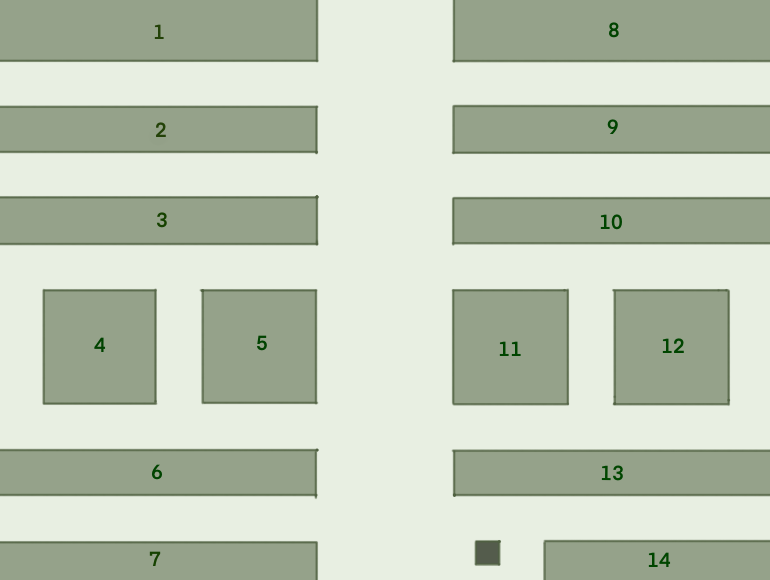
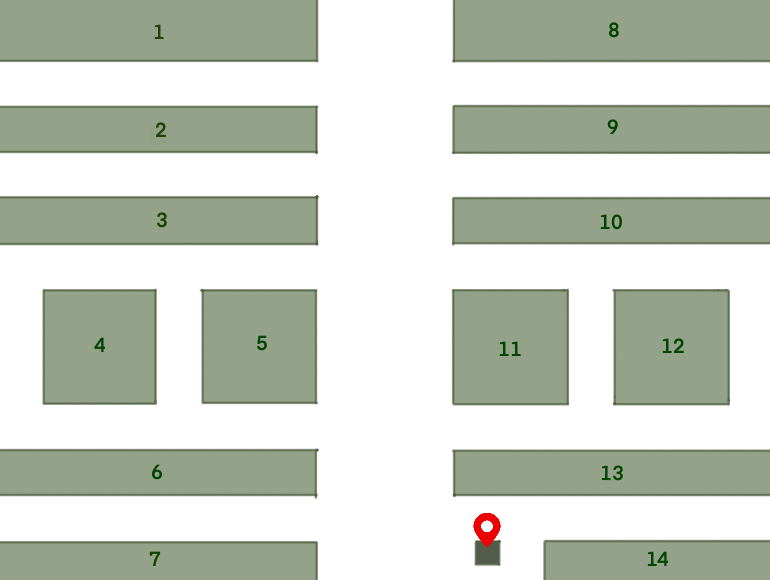
modification de la map

diff --git a/front-end/src/main/java/edu/ezip/ing1/pds/front/ProductMapping.java b/front-end/src/main/java/edu/ezip/ing1/pds/front/ProductMapping.java
@@ -1,6 +1,7 @@
 package edu.ezip.ing1.pds.front;
 
 import javax.swing.*;
+import javax.swing.border.Border;
 import javax.swing.border.EmptyBorder;
 
 import edu.ezip.ing1.pds.business.dto.Emplacement;
@@ -111,6 +112,8 @@ public class ProductMapping implements ActionListener{
         JPanel panelMap = new JPanel();
         panelMap.setLayout(null);
         panelMap.setBounds(60, 50,770,580);
+        Border border = BorderFactory.createLineBorder(Color.BLACK);
+        panelMap.setBorder(border);
         panelMap.setBackground(Color.WHITE);
 
         ImageIcon map = new ImageIcon(Objects.requireNonNull(Methodes.class.getResource("/mapV1.png")));
